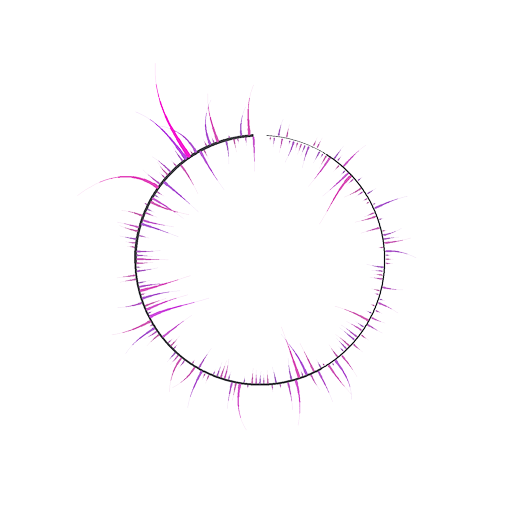
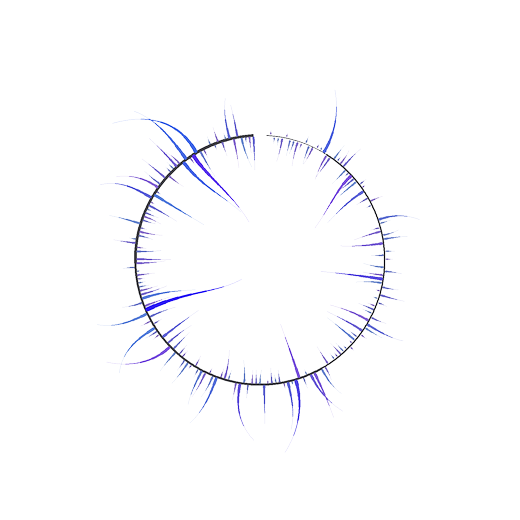
site: replace g4 caption + glyph (open-mind quote)
Re-render the semantic g4 gallery glyph from the new caption text so the
glyph still encodes what the card shows (d=192, semantic, 48% ring v10,
AA supersample=3). Bump cache-buster g4 ?v=5→?v=6.

Claude-Session: https://claude.ai/code/session_019SA9tTx9JUW8atx3a4hjPQ

Changed region(s): [[0.2154, 0.2154, 0.7692, 0.8], [0.5231, 0.2462, 0.5538, 0.2769], [0.4308, 0.3692, 0.4615, 0.4]]

diff --git a/index.html b/index.html
@@ -289,7 +289,7 @@
         <div class="card"><div class="glow"><img src="assets/g1.png?v=5" alt="signed glyph"></div><div class="txt">&ldquo;love&rdquo;</div></div>
         <div class="card"><div class="glow"><img src="assets/g2.png?v=5" alt="magnitude glyph"></div><div class="txt">&ldquo;The best thing to hold onto in life is each other.&rdquo;</div></div>
         <div class="card"><div class="glow"><img src="assets/g3.png?v=5" alt="muted glyph"></div><div class="txt">&ldquo;gravity&rdquo;</div></div>
-        <div class="card"><div class="glow"><img src="assets/g4.png?v=5" alt="semantic glyph"></div><div class="txt">&ldquo;Daria brings warmth to every room she walks into.&rdquo;</div></div>
+        <div class="card"><div class="glow"><img src="assets/g4.png?v=6" alt="semantic glyph"></div><div class="txt">&ldquo;It is not enough to be in the right place at the right time. You should also have an open mind at the right time.&rdquo;</div></div>
         <div class="card"><div class="glow"><img src="assets/g5.png?v=5" alt="signed glyph of a paragraph"></div><div class="txt">&ldquo;Quantum entanglement is a physical phenomenon where the state of each particle cannot be described independently of the others, even across a vast distance.&rdquo;</div></div>
         <div class="card"><div class="glow"><img src="assets/g6.png?v=5" alt="semantic glyph of a phrase"></div><div class="txt">&ldquo;Creativity is contagious, pass it on.&rdquo;</div></div>
       </div>
